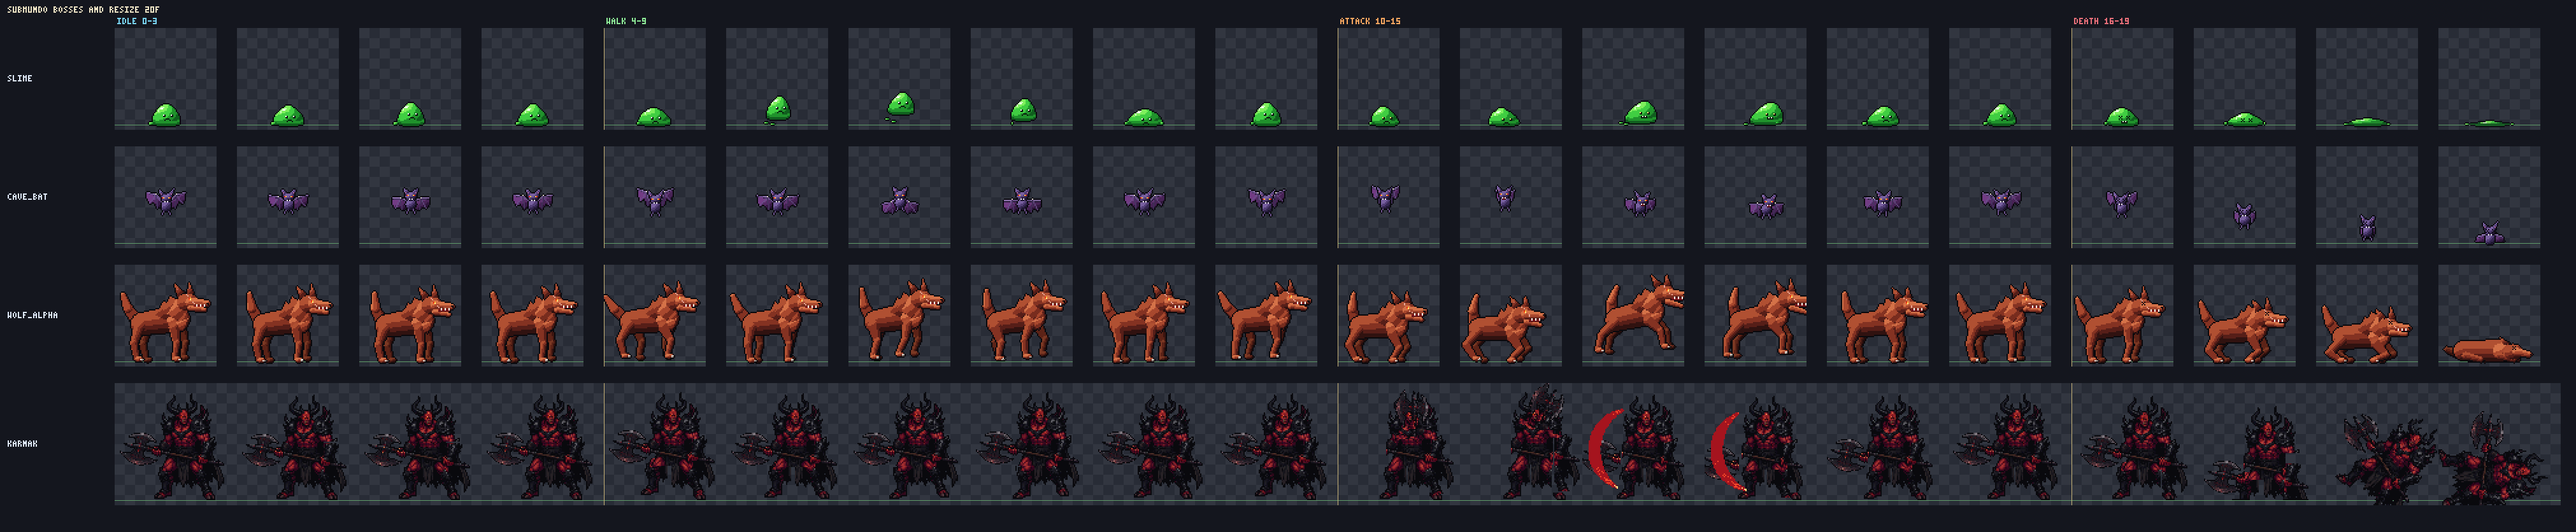
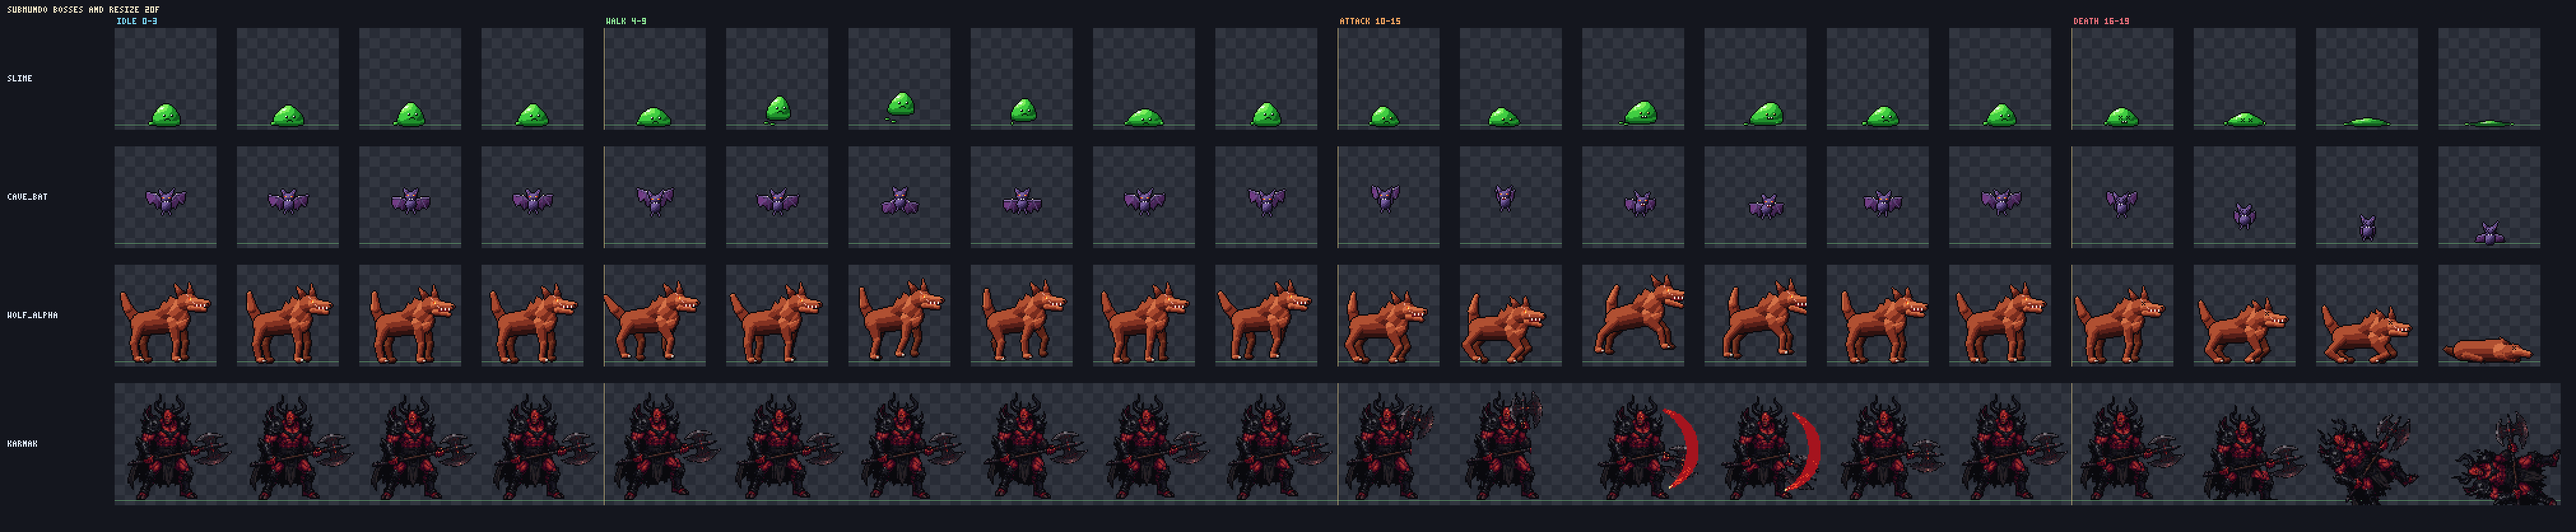
T-104 e T-105 corrigir orientacao/ataque de Karnak e aumentar escala em 20% (BRF-095, BRF-096)

Changed region(s): [[0.0312, 0.7153, 0.997, 0.9641]]

diff --git a/src/view/scenes/DungeonScene.ts b/src/view/scenes/DungeonScene.ts
@@ -723,7 +723,14 @@ export class DungeonScene extends Phaser.Scene {
     const isAnimatedSpritesheet = ANIMATED_SPRITESHEET_MONSTERS.has(
       monster.spriteKey
     );
-    const scale = isAnimatedSpritesheet ? 0.88 : isAbyssHerald ? 1.75 : 1.5;
+    const scale =
+      monster.spriteKey === 'karnak'
+        ? 1.06
+        : isAnimatedSpritesheet
+          ? 0.88
+          : isAbyssHerald
+            ? 1.75
+            : 1.5;
 
     const sprite = this.add
       .sprite(monster.position.x, monster.position.y, monster.spriteKey, 0)
@@ -1476,7 +1483,7 @@ export class DungeonScene extends Phaser.Scene {
       const barHeight = isBoss ? 6 : 4;
       const offsetY =
         monster.spriteKey === 'karnak'
-          ? 46
+          ? 56
           : monster.spriteKey === 'wolf_alpha'
             ? 40
             : monster.spriteKey === 'skeleton_chief'

diff --git a/scripts/art/buildMonstersSheets.py b/scripts/art/buildMonstersSheets.py
@@ -1326,18 +1326,57 @@ def _draw_crimson_slash(cv: Canvas, phase: float) -> None:
                         cv.put(ix, iy, col)
 
 
-def _draw_raised_axe(cv: Canvas, base_cv: Canvas, dst_x: float, dst_y: float, angle_rad: float) -> None:
-    """Recorta o machado duplo original do Karnak e o rotaciona erguido sobre o ombro."""
-    axe_src = Canvas(KARNAK_W, KARNAK_H)
-    for y in range(36, 70):
-        for x in range(0, 42):
-            col = base_cv.get(x, y)
+def _flip_canvas_h(cv: Canvas) -> Canvas:
+    out = Canvas(cv.w, cv.h)
+    for y in range(cv.h):
+        for x in range(cv.w):
+            col = cv.get(x, y)
             if col[3] > 0:
-                axe_src.put(x, y, col)
-    # Rotaciona em torno do punho do machado (x=32, y=54)
-    rot_axe = _rotate_canvas_nn(axe_src, 32.0, 54.0, angle_rad, dst_x, dst_y)
-    # Adiciona brilho nas runas da lamina erguida
-    _boost_karnak_glow(rot_axe, 0.8)
+                out.put(cv.w - 1 - x, y, col)
+    return out
+
+
+def _is_karnak_axe_region(x: int, y: int) -> bool:
+    """Isola apenas a lamina dupla + punho frontal do machado (sem ombro nem coxa)."""
+    if 38 <= y <= 48:
+        return x <= 33
+    if 49 <= y <= 57:
+        return x <= 34
+    if 58 <= y <= 64:
+        return x <= 33
+    return False
+
+
+def _is_karnak_cape_tail(x: int, y: int) -> bool:
+    """Isola apenas a ponta traseira da capa atras da perna esquerda (x >= 76, 65 <= y <= 84)."""
+    return 65 <= y <= 84 and x >= 76
+
+
+def _draw_raised_axe(cv: Canvas, base_cv: Canvas, dst_x: float, dst_y: float, angle_rad: float) -> None:
+    """Recorta o machado duplo original do Karnak e o rotaciona em torno do punho (x=32, y=53)."""
+    axe_src = Canvas(KARNAK_W, KARNAK_H)
+    for y in range(38, 65):
+        for x in range(0, 35):
+            if _is_karnak_axe_region(x, y):
+                col = base_cv.get(x, y)
+                if col[3] > 0:
+                    axe_src.put(x, y, col)
+    rot_axe = _rotate_canvas_nn(axe_src, 32.0, 53.0, angle_rad, dst_x, dst_y)
+    # Realca runas da lamina rotacionada
+    for y in range(rot_axe.h):
+        for x in range(rot_axe.w):
+            r, g, b, a = rot_axe.get(x, y)
+            if a > 0 and r >= 130 and r > g + 35 and r > b + 45:
+                rot_axe.put(
+                    x,
+                    y,
+                    (
+                        int(clamp(r + 45, 0, 255)),
+                        int(clamp(g + 55, 0, 255)),
+                        int(clamp(b + 20, 0, 255)),
+                        a,
+                    ),
+                )
     cv.composite(rot_axe)
 
 
@@ -1358,41 +1397,68 @@ def _render_karnak_posed(
 ) -> Canvas:
     out = Canvas(KARNAK_W, KARNAK_H)
 
-    # 1. Capa esfarrapada (fundo direito: x >= 66, y >= 45)
-    for y in range(45, 88):
-        for x in range(66, KARNAK_W):
+    # 1. Ponta traseira da capa (com overlap em x=73..76 atras da perna para nunca abrir fenda)
+    for y in range(65, 85):
+        for x in range(73, KARNAK_W):
             col = base_cv.get(x, y)
             if col[3] == 0:
                 continue
-            nx = clamp(x + cape_dx + upper_dx, 0, KARNAK_W - 1)
-            ny = clamp(y + cape_dy + upper_dy, 0, KARNAK_FOOT_Y - 1)
+            nx = clamp(x + leg_r_dx + cape_dx, 0, KARNAK_W - 1)
+            ny = clamp(y + leg_r_dy + cape_dy, 0, KARNAK_FOOT_Y - 1)
             out.put(nx, ny, col)
 
-    # 2. Pernas abaixo da cintura (y >= 62), com cascos limitados a y <= 91
+    # 2. Pernas abaixo da cintura (y >= 62), com saiote central coeso entre as duas coxas
+    mid_dx = int(round((leg_l_dx + leg_r_dx) * 0.5))
+    mid_dy = int(round((leg_l_dy + leg_r_dy) * 0.5))
+
+    # 2a. Perna frontal (x <= 50)
     for y in range(62, KARNAK_H):
-        for x in range(KARNAK_W):
-            if x >= 68 and y < 86:
-                continue  # ja desenhado na capa
-            if x < 35 and y < 68:
-                continue  # lamina do machado
+        for x in range(0, 51):
+            if _is_karnak_axe_region(x, y):
+                continue
             col = base_cv.get(x, y)
             if col[3] == 0:
                 continue
-            if x < 52:
-                nx = clamp(x + leg_l_dx, 0, KARNAK_W - 1)
-                ny = min(KARNAK_FOOT_Y - 1, max(0, y + leg_l_dy))
-            else:
-                nx = clamp(x + leg_r_dx, 0, KARNAK_W - 1)
-                ny = min(KARNAK_FOOT_Y - 1, max(0, y + leg_r_dy))
+            nx = clamp(x + leg_l_dx, 0, KARNAK_W - 1)
+            ny = min(KARNAK_FOOT_Y - 1, max(0, y + leg_l_dy))
             out.put(nx, ny, col)
 
-    # 3. Tronco, ombros, bracos e cabeca (y < 66)
-    for y in range(0, 66):
+    # 2b. Perna traseira + casco completo (55 <= x <= 78, exceto ponta da capa)
+    for y in range(62, KARNAK_H):
+        for x in range(55, KARNAK_W):
+            if _is_karnak_cape_tail(x, y):
+                continue
+            col = base_cv.get(x, y)
+            if col[3] == 0:
+                continue
+            nx = clamp(x + leg_r_dx, 0, KARNAK_W - 1)
+            ny = min(KARNAK_FOOT_Y - 1, max(0, y + leg_r_dy))
+            out.put(nx, ny, col)
+
+    # 2c. Saiote central (48 <= x <= 58, 62 <= y <= 83) com overlap de 3px em ambas as pernas
+    for y in range(62, 84):
+        for x in range(48, 59):
+            col = base_cv.get(x, y)
+            if col[3] == 0:
+                continue
+            nx = clamp(x + mid_dx, 0, KARNAK_W - 1)
+            ny = min(KARNAK_FOOT_Y - 1, max(0, y + mid_dy))
+            out.put(nx, ny, col)
+
+    # 2d. Garante que nenhuma fenda vertical de 1-2px sobre entre as pernas/saiote (62 <= y <= 82)
+    for y in range(62, 83):
+        for x in range(46, 62):
+            if out.get(x, y)[3] == 0:
+                left_c = out.get(x - 1, y)
+                right_c = out.get(x + 1, y) if x + 1 < KARNAK_W else (0, 0, 0, 0)
+                right2_c = out.get(x + 2, y) if x + 2 < KARNAK_W else (0, 0, 0, 0)
+                if left_c[3] > 0 and (right_c[3] > 0 or right2_c[3] > 0):
+                    out.put(x, y, left_c)
+
+    # 3. Tronco, ombros, ambos os bracos, cabo traseiro e cabeca (y < 65)
+    for y in range(0, 65):
         for x in range(KARNAK_W):
-            if x >= 68 and y >= 45:
-                continue  # capa
-            is_axe_head = (x <= 34 and y >= 36)
-            if is_axe_head:
+            if _is_karnak_axe_region(x, y):
                 continue
             col = base_cv.get(x, y)
             if col[3] == 0:
@@ -1401,17 +1467,18 @@ def _render_karnak_posed(
             ny = clamp(y + upper_dy, 0, KARNAK_FOOT_Y - 1)
             out.put(nx, ny, col)
 
-    # Preenche eventual fenda de 1-2px na cintura quando o tronco sobe
-    if upper_dy < 0:
-        for y in range(61 + upper_dy, 64):
-            for x in range(40, 66):
-                if out.get(x, y)[3] == 0 and out.get(x, y - 1)[3] > 0 and out.get(x, y + 2)[3] > 0:
-                    out.put(x, y, (34, 30, 34, 255))
+    # Preenche eventual fenda horizontal de 1-2px na cintura quando o tronco sobe/desce
+    for y in range(max(1, 60 + min(upper_dy, mid_dy)), min(KARNAK_H - 2, 66 + max(upper_dy, mid_dy))):
+        for x in range(38, 70):
+            if out.get(x, y)[3] == 0 and out.get(x, y - 1)[3] > 0 and out.get(x, y + 2)[3] > 0:
+                out.put(x, y, out.get(x, y - 1))
 
-    # 4. Cabeca do machado duplo (x <= 34, y >= 36)
+    # 4. Cabeca do machado duplo isolada
     if not hide_front_axe:
-        for y in range(36, 70):
-            for x in range(0, 36):
+        for y in range(38, 65):
+            for x in range(0, 35):
+                if not _is_karnak_axe_region(x, y):
+                    continue
                 col = base_cv.get(x, y)
                 if col[3] == 0:
                     continue
@@ -1464,40 +1531,56 @@ def build_karnak_frames() -> List[Canvas]:
         )
 
     # 10..15 attack (antecipacao erguendo machado -> golpe descendente com rastro carmesim -> retorno)
-    # 10: inicio da antecipacao
-    f10 = _render_karnak_posed(base_cv, upper_dx=3, upper_dy=-1, leg_l_dx=2, leg_r_dx=3, cape_dx=2, hide_front_axe=True, rune_boost=0.7)
-    _draw_raised_axe(f10, base_cv, 58.0, 32.0, 1.35)
+    # 10: inicio da antecipacao (machado subindo sem tampar o rosto)
+    f10 = _render_karnak_posed(
+        base_cv, upper_dx=3, upper_dy=-1, leg_l_dx=2, leg_r_dx=3, cape_dx=1, hide_front_axe=True, rune_boost=0.7
+    )
+    _draw_raised_axe(f10, base_cv, 39.0, 40.0, 0.95)
     frames.append(remove_isolated_pixels(f10))
 
-    # 11: pico da antecipacao (machado erguido atras)
-    f11 = _render_karnak_posed(base_cv, upper_dx=5, upper_dy=-2, leg_l_dx=3, leg_r_dx=4, cape_dx=3, cape_dy=-1, hide_front_axe=True, rune_boost=1.0)
-    _draw_raised_axe(f11, base_cv, 62.0, 26.0, 1.85)
+    # 11: pico da antecipacao (machado erguido alto acima do ombro)
+    f11 = _render_karnak_posed(
+        base_cv, upper_dx=5, upper_dy=-2, leg_l_dx=3, leg_r_dx=4, cape_dx=2, cape_dy=-1, hide_front_axe=True, rune_boost=1.0
+    )
+    _draw_raised_axe(f11, base_cv, 44.0, 33.0, 1.40)
     frames.append(remove_isolated_pixels(f11))
 
-    # 12: golpe amplo descendente com rastro vermelho carmesim
-    f12 = _render_karnak_posed(base_cv, upper_dx=-4, upper_dy=1, leg_l_dx=-4, leg_r_dx=-2, cape_dx=-2, axe_dx=-2, axe_dy=5, rune_boost=1.0)
+    # 12: golpe amplo descendente com machado acompanhando o arco vermelho carmesim
+    f12 = _render_karnak_posed(
+        base_cv, upper_dx=-4, upper_dy=1, leg_l_dx=-3, leg_r_dx=-2, cape_dx=-2, hide_front_axe=True, rune_boost=1.0
+    )
+    _draw_raised_axe(f12, base_cv, 30.0, 58.0, -0.45)
     _draw_crimson_slash(f12, phase=0.0)
     frames.append(remove_isolated_pixels(f12))
 
-    # 13: impacto baixo do golpe com rastro carmesim estendido
-    f13 = _render_karnak_posed(base_cv, upper_dx=-6, upper_dy=2, leg_l_dx=-5, leg_r_dx=-3, cape_dx=-3, axe_dx=-3, axe_dy=9, rune_boost=1.0)
+    # 13: impacto baixo do golpe com machado na ponta inferior do rastro carmesim
+    f13 = _render_karnak_posed(
+        base_cv, upper_dx=-6, upper_dy=2, leg_l_dx=-4, leg_r_dx=-3, cape_dx=-3, hide_front_axe=True, rune_boost=1.0
+    )
+    _draw_raised_axe(f13, base_cv, 29.0, 62.0, -0.82)
     _draw_crimson_slash(f13, phase=0.65)
     frames.append(remove_isolated_pixels(f13))
 
-    # 14: follow-through
-    frames.append(_render_karnak_posed(base_cv, upper_dx=-3, upper_dy=1, leg_l_dx=-2, leg_r_dx=-1, axe_dx=-1, axe_dy=4, rune_boost=0.5))
+    # 14: follow-through (recolhendo o machado do golpe baixo)
+    f14 = _render_karnak_posed(
+        base_cv, upper_dx=-3, upper_dy=1, leg_l_dx=-2, leg_r_dx=-1, hide_front_axe=True, rune_boost=0.5
+    )
+    _draw_raised_axe(f14, base_cv, 30.0, 56.0, -0.22)
+    frames.append(remove_isolated_pixels(f14))
 
     # 15: retorno a guarda
     frames.append(_render_karnak_posed(base_cv, upper_dx=-1, upper_dy=0, leg_l_dx=-1, rune_boost=0.2))
 
     # 16..19 death (recuo -> joelhos cedendo -> tombando -> caido no chao com machado)
     # 16: recuo
-    f16 = _render_karnak_posed(base_cv, upper_dx=3, upper_dy=2, leg_l_dx=1, leg_r_dx=2, cape_dx=2)
+    f16 = _render_karnak_posed(base_cv, upper_dx=3, upper_dy=2, leg_l_dx=1, leg_r_dx=2, cape_dx=1)
     _boost_karnak_glow(f16, 0.0, dim_eyes=True)
     frames.append(f16)
 
-    # 17: joelhos cedendo
-    f17 = _render_karnak_posed(base_cv, upper_dx=4, upper_dy=10, leg_l_dx=-1, leg_l_dy=8, leg_r_dx=3, leg_r_dy=8, axe_dy=12, cape_dy=8)
+    # 17: joelhos cedendo (machado e capa descem coesos com o tronco)
+    f17 = _render_karnak_posed(
+        base_cv, upper_dx=3, upper_dy=9, leg_l_dx=-1, leg_l_dy=7, leg_r_dx=2, leg_r_dy=7, axe_dy=1, cape_dy=0
+    )
     _boost_karnak_glow(f17, 0.0, dim_eyes=True)
     frames.append(f17)
 
@@ -1511,7 +1594,8 @@ def build_karnak_frames() -> List[Canvas]:
     _boost_karnak_glow(f19, 0.0, dim_eyes=True)
     frames.append(remove_isolated_pixels(f19))
 
-    return frames
+    # Espelha horizontalmente todos os 20 frames para orientacao base virada/atacando para a DIREITA
+    return [_flip_canvas_h(fr) for fr in frames]
 
 
 # ---------------------------------------------------------------------------

diff --git a/docs/briefings/BRF-095_AG08_karnak-anim-direction.md b/docs/briefings/BRF-095_AG08_karnak-anim-direction.md
@@ -1,0 +1,22 @@
+# BRF-095 — AG08 (Arte) — T-104 Corrigir orientação base e animação de ataque de Karnak (`karnak.png`)
+
+**Leia:** [docs/agentes/AG08_Arte.md](../agentes/AG08_Arte.md), [scripts/art/buildMonstersSheets.py](../../scripts/art/buildMonstersSheets.py), [public/assets/sprites/karnak.png](../../public/assets/sprites/karnak.png). **Regra:** respostas curtas; **PROIBIDO** editar `src/`, `tests/` ou executar `git`.
+
+**Contexto:**
+- Todos os monstros e bosses (`wolf_alpha`, `skeleton_chief`, etc.) têm orientação base virada e atacando para a **direita** no spritesheet, pois a `DungeonScene.ts` aplica `setFlipX(this.hero.position.x < monster.position.x)`.
+- `karnak.png` (`1920×96`, 20 frames `96×96`) foi gerado virado e atacando para a **esquerda**, fazendo Karnak sempre atacar para o lado oposto do Herói.
+- Além disso, nos frames de ataque (`10..15`) de `build_karnak_frames()` em `scripts/art/buildMonstersSheets.py`, há dois artefatos de recorte:
+  1. Quando `hide_front_axe=True` (frames 10 e 11) ou quando o corpo/pernas deslocam nos frames 11, 12 e 13, a máscara `is_axe_head = (x <= 34 and y >= 36)` e `if x < 35 and y < 68: continue` deixa um pedaço da lâmina original visível nos frames 12–13 atrás do rastro vermelho e cria uma fenda vertical de 1–2px entre `leg_l` e `leg_r` em `x = 52` quando `leg_l_dx != leg_r_dx`.
+
+**Fazer:**
+1. Em `scripts/art/buildMonstersSheets.py` (`_render_karnak_posed` e `build_karnak_frames`):
+   - Corrigir a fenda vertical entre as pernas (`x = 52`) quando `leg_l_dx != leg_r_dx` (preenchendo qualquer gap horizontal de 1–2px entre `50 <= x <= 56`, `62 <= y <= 84`, ou mantendo as pernas coesas sem rasgo vertical no frame 11 e 17).
+   - Nos frames `12` e `13` (golpe descendente com rastro carmesim), rotacionar/posicionar o machado duplo acompanhando o golpe para frente/baixo de forma limpa (sem deixar metade da lâmina estática cortada atrás do arco carmesim).
+   - **Orientação para a direita:** Espelhar horizontalmente (`flip_h`) todos os 20 frames gerados por `build_karnak_frames()` (ou espelhar `base_cv` e os offsets) para que o spritesheet final `public/assets/sprites/karnak.png` (`1920×96`) tenha Karnak olhando, caminhando e desferindo o golpe com rastro carmesim para a **direita** (igual a `wolf_alpha.png` e `skeleton_chief.png`).
+2. Executar `python3 scripts/art/buildMonstersSheets.py` para regenerar `public/assets/sprites/karnak.png` e `assets/mockups/preview_bosses_20f.png`.
+3. Inspecionar `public/assets/sprites/karnak.png` com `view_file` para confirmar que Karnak ataca para a direita e que não há rasgos nas pernas nem lâmina cortada nos frames `10..15`.
+
+**Permitido:** `scripts/art/buildMonstersSheets.py`, `public/assets/sprites/karnak.png`, `assets/mockups/preview_bosses_20f.png`.
+**Proibido:** `src/`, `tests/`, e qualquer comando `git`.
+
+**Entrega:** até 6 linhas: ajustes realizados em `buildMonstersSheets.py`, regeneração de `karnak.png` (`1920×96`) e confirmação visual.

diff --git a/docs/briefings/BRF-096_AG01_karnak-scale-20pct.md b/docs/briefings/BRF-096_AG01_karnak-scale-20pct.md
@@ -1,0 +1,17 @@
+# BRF-096 — AG01 (Gameplay) — T-105 Aumentar escala de Karnak em +20% na `DungeonScene.ts`
+
+**Leia:** [docs/agentes/AG01_Gameplay.md](../agentes/AG01_Gameplay.md), [src/view/scenes/DungeonScene.ts](../../src/view/scenes/DungeonScene.ts). **Regra:** respostas curtas; **PROIBIDO** editar `src/core/`, `tests/`, `scripts/` ou executar `git`.
+
+**Contexto:**
+- Na `DungeonScene.ts`, `createMonsterVisual` aplica `scale = isAnimatedSpritesheet ? 0.88 : ...` para todos os monstros com spritesheet animado.
+- O dono pediu para aumentar o sprite de **Karnak** (`monster.spriteKey === 'karnak'`) em ~20% (`0.88 * 1.2 = 1.056` → usar `1.06`).
+
+**Fazer:**
+1. Em `src/view/scenes/DungeonScene.ts`:
+   - Em `createMonsterVisual(monster: MonsterInstance)` (~linha 726), definir escala `1.06` quando `monster.spriteKey === 'karnak'` (mantendo `0.88` para os demais `isAnimatedSpritesheet`).
+   - No cálculo de `offsetY` da barra de HP individual (~linha 1478), aumentar o `offsetY` de `monster.spriteKey === 'karnak'` de `46` para `56` (acompanhando o aumento de 20% na altura do sprite para a barra de vida não sobrepor os chifres).
+
+**Permitido:** `src/view/scenes/DungeonScene.ts`.
+**Proibido:** `src/core/`, `tests/`, `scripts/`, e qualquer comando `git`.
+
+**Entrega:** até 4 linhas: alterações feitas em `DungeonScene.ts`.

diff --git a/docs/backlog.md b/docs/backlog.md
@@ -105,4 +105,5 @@
 | T-101 | Extrair pose 3/4 de `skeleton_chief_turnaround.png` e gerar spritesheet 20f `public/assets/sprites/skeleton_chief.png` (`1600×80`) + `manifest.json`, `docs/guia_visual.md` e `preview_skeleton_chief_20f.png` (tam. P) | M6 | AG08 (Arte) | feita |
 | T-102 | Salvar dados e narrativa de `skeleton_chief` (*Esqueleto Chefe*, melee) em `src/data/monsters.json`, `docs/narrativa.md` e `tests/core/monsters-m6.test.ts` (tam. P) | M6 | AG04 (Sistemas/Meta) + AG06 (Narrativa) | feita |
 | T-103 | Registrar `skeleton_chief` em `CombatVfx.ts`, pré-carregar em `BootScene.ts` e aplicá-lo na Onda 2 da `testArena` junto com os bosses (`DungeonScene.ts`) (tam. P) | M6 | AG07 (Arquiteto) + AG01 (Gameplay) | feita |
-
+| T-104 | Corrigir orientação base (virado/atacando para a direita como os demais monstros) e recorte dos frames de ataque na animação 20f de **Karnak** (`scripts/art/buildMonstersSheets.py` + `public/assets/sprites/karnak.png`) (tam. P) | M6 | AG08 (Arte) | feita |
+| T-105 | Aumentar escala visual do sprite de **Karnak** em +20% (`0.88` → `1.06`) e ajustar `offsetY` da barra de HP em `src/view/scenes/DungeonScene.ts` (tam. P) | M6 | AG01 (Gameplay) | feita |
